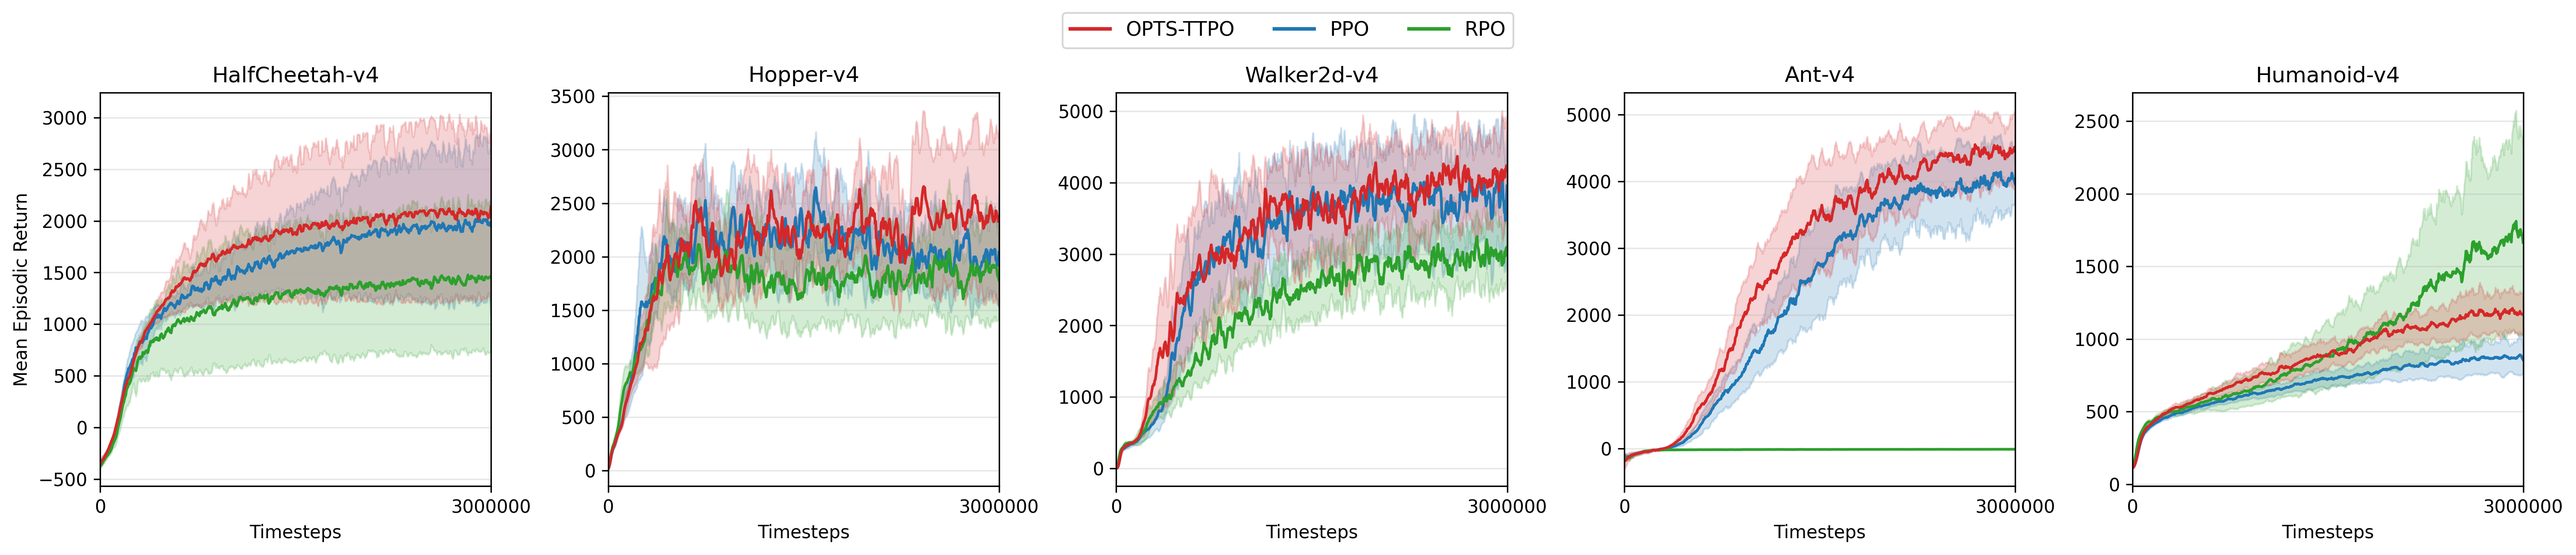
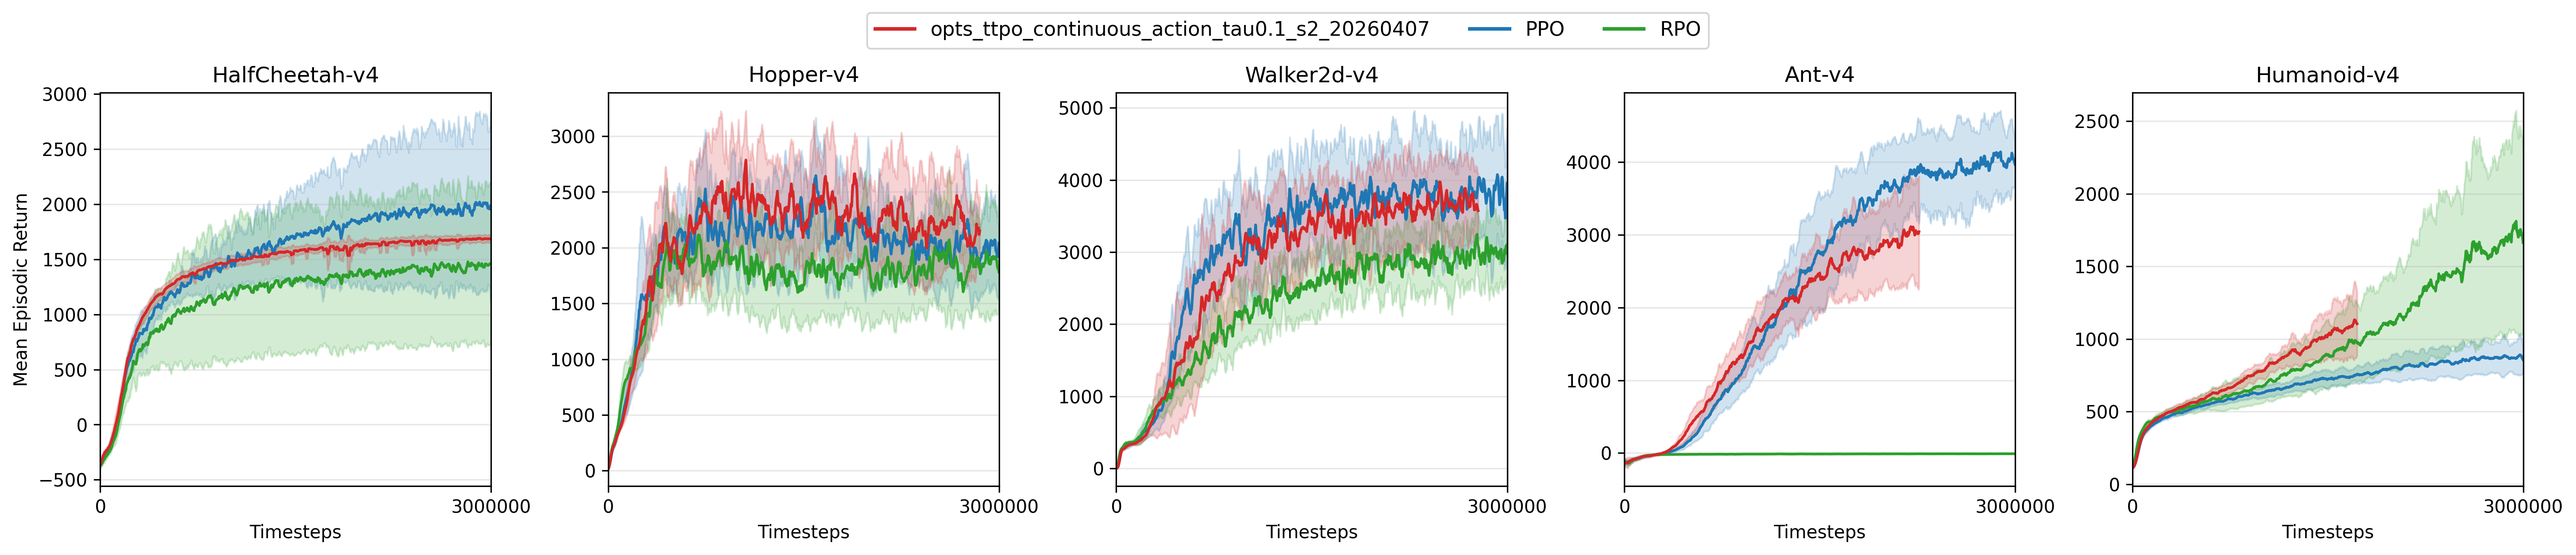
update visualize scripts

diff --git a/Atari_MuJoCo/visual/plot_mujoco.py b/Atari_MuJoCo/visual/plot_mujoco.py
@@ -154,6 +154,8 @@ def aggregate_seed_results(all_seed_data):
     """
     聚合多个 seed 的结果，对同一行计算 mean 和 std
 
+    各 seed 的 step 条数不一致时，取最短长度截断后再按索引对齐聚合。
+
     Args:
         all_seed_data: 字典，key 是 seed，value 是 (step列表, mean_return列表, max_return列表, min_return列表) 元组
 
@@ -164,27 +166,32 @@ def aggregate_seed_results(all_seed_data):
     if not all_seed_data:
         return [], [], []
 
-    max_length = max(
-        len(values[0]) if isinstance(values, tuple) and len(values) >= 4 else 0
-        for values in all_seed_data.values()
-    )
+    lengths = []
+    for values in all_seed_data.values():
+        if isinstance(values, tuple) and len(values) >= 4 and values[0]:
+            lengths.append(len(values[0]))
 
-    if max_length == 0:
+    if not lengths:
         return [], [], []
 
-    first_seed_data = next(iter(all_seed_data.values()))
-    if isinstance(first_seed_data, tuple) and len(first_seed_data) >= 4:
-        aggregated_steps = list(first_seed_data[0])
-    else:
-        aggregated_steps = []
+    min_length = min(lengths)
+    if min_length == 0:
+        return [], [], []
+
+    # 步数轴采用排序后第一个 seed 的 step（截断到最短长度）
+    sorted_seeds = sorted(all_seed_data.keys())
+    first_values = all_seed_data[sorted_seeds[0]]
+    if not isinstance(first_values, tuple) or len(first_values) < 4:
+        return [], [], []
+    aggregated_steps = list(first_values[0][:min_length])
 
     aggregated_mean_values = []
     aggregated_std_values = []
 
-    for i in range(max_length):
+    for i in range(min_length):
         row_values = []
-
-        for seed, values in all_seed_data.items():
+        for seed in sorted_seeds:
+            values = all_seed_data[seed]
             if isinstance(values, tuple) and len(values) >= 4:
                 mean_returns = values[1]
                 if i < len(mean_returns):
@@ -193,8 +200,6 @@ def aggregate_seed_results(all_seed_data):
         if row_values:
             aggregated_mean_values.append(np.mean(row_values))
             aggregated_std_values.append(np.std(row_values))
-        else:
-            break
 
     aggregated_steps = aggregated_steps[:len(aggregated_mean_values)]
 

diff --git a/Atari_MuJoCo/visual/plot_atari.py b/Atari_MuJoCo/visual/plot_atari.py
@@ -269,9 +269,17 @@ def plot_all_tasks(results_dir="../cleanrl/results", output_dir="./visual",
             color = algo_colors[algo_key]
             display_name = get_display_name(algo_name, date)
 
+            # 各 seed 的 step 条数不一致时，统一到最短长度再可视化
+            min_len = min(
+                (len(steps) for steps, _ in seed_data.values()),
+                default=0,
+            )
+
             for i, (seed, (steps, returns)) in enumerate(sorted(seed_data.items())):
-                steps_arr = np.array(steps)
-                smoothed = smooth_data(returns, smooth_window)
+                steps_trunc = steps[:min_len]
+                returns_trunc = returns[:min_len]
+                steps_arr = np.array(steps_trunc)
+                smoothed = smooth_data(returns_trunc, smooth_window)
                 # 只在第一条种子曲线加 label（避免图例重复）
                 label = display_name if i == 0 else None
                 ax.plot(steps_arr[:len(smoothed)], smoothed,
